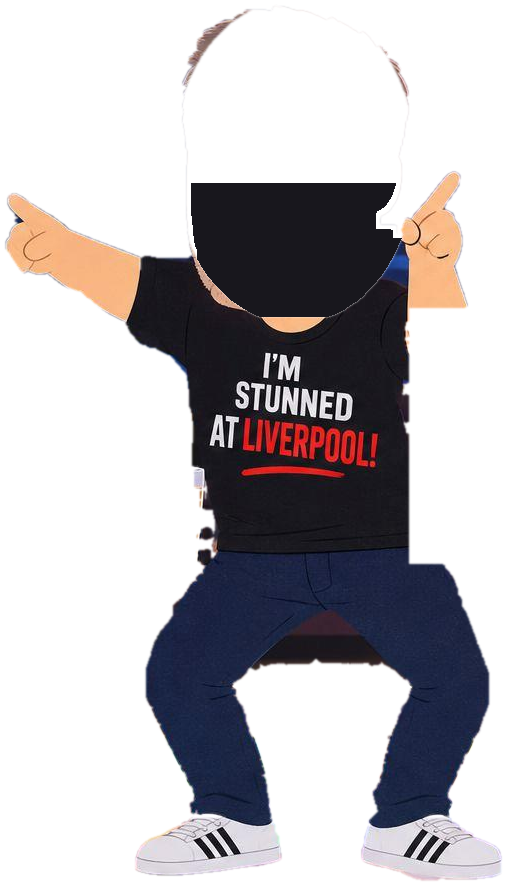
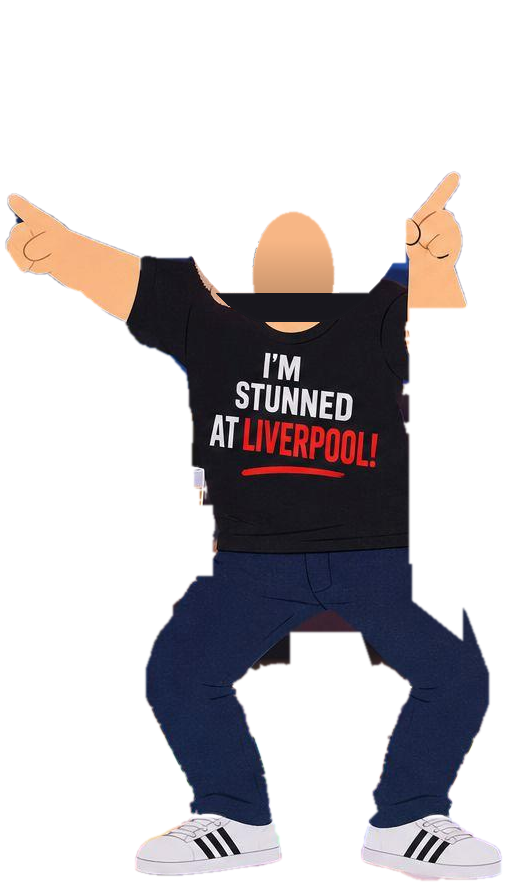
Fix Gary's shadow and clean up all pundit cut-outs
- Replace the dark shirt-coloured block under each head with a short
  skin-toned neck plus collar, so a tilted head no longer shows a dark
  patch beside the face
- Extend the head a few px into the body and overlap the neck fill so the
  head/body seam (and its dark outline ring) disappears
- Open away thin hair/outline slivers left on the body around the head
- Erase background scraps (chairs, bar lights, studio blue) with
  hand-traced polygons in masks/clean.json

Claude-Session: https://claude.ai/code/session_01Dp2R7D8dpgJrJKu2Z7FzDb

diff --git a/tools/build_assets.py b/tools/build_assets.py
@@ -3,6 +3,7 @@ ROOT = _os.path.dirname(_os.path.dirname(_os.path.abspath(__file__)))
 ASSETS = _os.path.join(ROOT, 'assets'); MASKS = _os.path.join(ROOT, 'masks'); DATA = _os.path.join(ROOT, 'data'); SOURCE = _os.path.join(ROOT, 'source'); OUTDIR = _os.path.join(ROOT, 'out'); TOOLS = _os.path.join(ROOT, 'tools')
 import cv2, numpy as np, json, sys
 sys.path.insert(0,TOOLS); from heads import HEADS
+CLEAN=json.load(open(f'{MASKS}/clean.json'))  # {sprite: [polygon in sprite-local px, ...]}
 C=MASKS; OUT=ASSETS
 imgs={k:cv2.imread(f'{SOURCE}/{k}.png') for k in ('18306','18307','18346','18349')}
 masks={n:cv2.imread(f'{C}/maskc_{n}.png',0) for n in HEADS}
@@ -31,7 +32,6 @@ for n,(iid,cx,cy,rx,ry,nx,ny) in HEADS.items():
     ys,xs=np.where(m>0); x0,y0,x1,y1=xs.min()-6,ys.min()-6,xs.max()+7,ys.max()+7
     crop=img[y0:y1,x0:x1]; mm=m[y0:y1,x0:x1]
     H,W=mm.shape
-    alpha=cv2.GaussianBlur(mm.astype(np.float32)/255,(0,0),0.9)
     # head mask
     hm=np.zeros((H,W),np.uint8)
     k={'carra2':1.04,'nev1':1.22,'nev2':1.32,'nev5':1.32,'nev4':1.32}.get(n,1.16)
@@ -45,20 +45,45 @@ for n,(iid,cx,cy,rx,ry,nx,ny) in HEADS.items():
     # drop stray bits of the head mask not connected to the main blob
     nn,lab,st,_=cv2.connectedComponentsWithStats(hm,8)
     if nn>1: big=1+np.argmax(st[1:,cv2.CC_STAT_AREA]); hm=np.where(lab==big,255,0).astype(np.uint8)
+    # background scraps stuck to the cut-out (chairs, bar clutter, studio blue): erase by hand-traced polygons
+    mm=mm.copy()
+    for poly in CLEAN.get(n, {}).get('head', []):
+        cv2.fillPoly(mm, [np.array(poly, np.int32)], 0); cv2.fillPoly(hm, [np.array(poly, np.int32)], 0)
+    alpha=cv2.GaussianBlur(mm.astype(np.float32)/255,(0,0),0.9)
+    for poly in CLEAN.get(n, {}).get('body', []): cv2.fillPoly(mm, [np.array(poly, np.int32)], 0)
+    alpha_b=cv2.GaussianBlur(mm.astype(np.float32)/255,(0,0),0.9)
     hsoft=cv2.GaussianBlur(hm.astype(np.float32)/255,(0,0),1.0)
+    # the head reaches ~5px into the body so the head/body seam never shows a gap (and no dark ring)
+    hext=cv2.bitwise_and(cv2.dilate(hm,cv2.getStructuringElement(cv2.MORPH_ELLIPSE,(11,11))),cv2.erode(mm,np.ones((3,3),np.uint8)))
+    hext[:int(cy-y0),:]=hm[:int(cy-y0),:]
+    hsoft=np.maximum(hsoft,cv2.GaussianBlur(hext.astype(np.float32)/255,(0,0),1.2))
     head=np.dstack([crop, (np.clip(alpha*hsoft,0,1)*255).astype(np.uint8)])
-    # body: remove head, fill the lower head area with shirt colour so a tilted head never shows a hole
-    # body: whole head removed; the neck/collar area under the head is filled with shirt colour
-    hd=cv2.dilate(hm,cv2.getStructuringElement(cv2.MORPH_ELLIPSE,(9,9)))
-    hd=cv2.bitwise_and(hd,cv2.dilate(mm,np.ones((3,3),np.uint8)))
+    # body: whole head removed; under it a short skin-toned neck (plus collar in shirt colour) so a
+    # tilted head shows a neck, not a dark block beside the face
+    hd=cv2.dilate(hm,cv2.getStructuringElement(cv2.MORPH_ELLIPSE,(13,13)))
+    hd=cv2.bitwise_and(hd,cv2.dilate(mm,np.ones((5,5),np.uint8)))
     hdsoft=cv2.GaussianBlur(hd.astype(np.float32)/255,(0,0),1.0)
-    body_a=alpha*(1-hdsoft)
+    body_a=alpha_b*np.clip(1-2*hdsoft,0,1)
+    # thin slivers of hair/outline left around the head would ghost when the head moves: open them away
+    rest=cv2.bitwise_and(mm,cv2.bitwise_not(hd))
+    op=cv2.morphologyEx(rest,cv2.MORPH_OPEN,cv2.getStructuringElement(cv2.MORPH_ELLIPSE,(9,9)))
+    op=cv2.dilate(op,np.ones((3,3),np.uint8))
+    op[int(ny-y0):,:]=255
+    body_a*=cv2.GaussianBlur(op.astype(np.float32)/255,(0,0),0.8)
     sb=crop[min(H-1,ny-y0+25):min(H,ny-y0+75), max(0,nx-x0-40):nx-x0+40].reshape(-1,3)
     shirt=np.median(sb,axis=0) if len(sb) else np.array([30,30,34])
-    fill=cv2.bitwise_and(hd,cv2.erode(mm,np.ones((9,9),np.uint8)))
-    fill[:int(cy-y0+ry*0.15),:]=0
-    bcol=crop.copy(); bcol[fill>0]=shirt.astype(np.uint8)
-    body_a=np.maximum(body_a,fill.astype(np.float32)/255)
+    hsv=cv2.cvtColor(crop,cv2.COLOR_BGR2HSV)
+    sk=(hm>0)&(hsv[...,0]>=5)&(hsv[...,0]<=22)&(hsv[...,1]>70)&(hsv[...,2]>170)
+    skin=np.median(crop[sk],axis=0) if sk.sum()>50 else np.array([130,170,235])
+    fill=cv2.bitwise_and(cv2.dilate(hd,np.ones((7,7),np.uint8)),cv2.erode(mm,np.ones((9,9),np.uint8)))
+    neck=np.zeros((H,W),np.uint8); cv2.ellipse(neck,(nx-x0,int(ny-y0-0.22*ry)),(int(0.36*rx),int(0.42*ry)),0,0,360,255,-1)
+    collar=np.zeros((H,W),np.uint8); collar[int(ny-y0-0.1*ry):,:]=255
+    fill=cv2.bitwise_and(fill,cv2.bitwise_or(neck,collar))
+    bcol=crop.copy()
+    ys_=np.arange(H,dtype=np.float32)[:,None,None]; shade=np.clip(1-(ys_-(ny-y0-0.45*ry))/(0.5*ry)*0.25,0.72,1.0)
+    neckcol=np.broadcast_to(skin[None,None,:]*shade,(H,W,3))
+    bcol[fill>0]=np.where((collar[fill>0]>0)[:,None],shirt[None,:],neckcol[fill>0]).astype(np.uint8)
+    body_a=np.maximum(body_a,cv2.GaussianBlur(fill.astype(np.float32)/255,(0,0),0.8))
     if n.startswith('nev'):
         zone=np.zeros((H,W),np.uint8); cv2.ellipse(zone,(cx-x0,cy-y0),(int(rx*1.6),int(ry*1.45)),0,0,360,255,-1)
         zone[int(cy-y0):,:]=0
